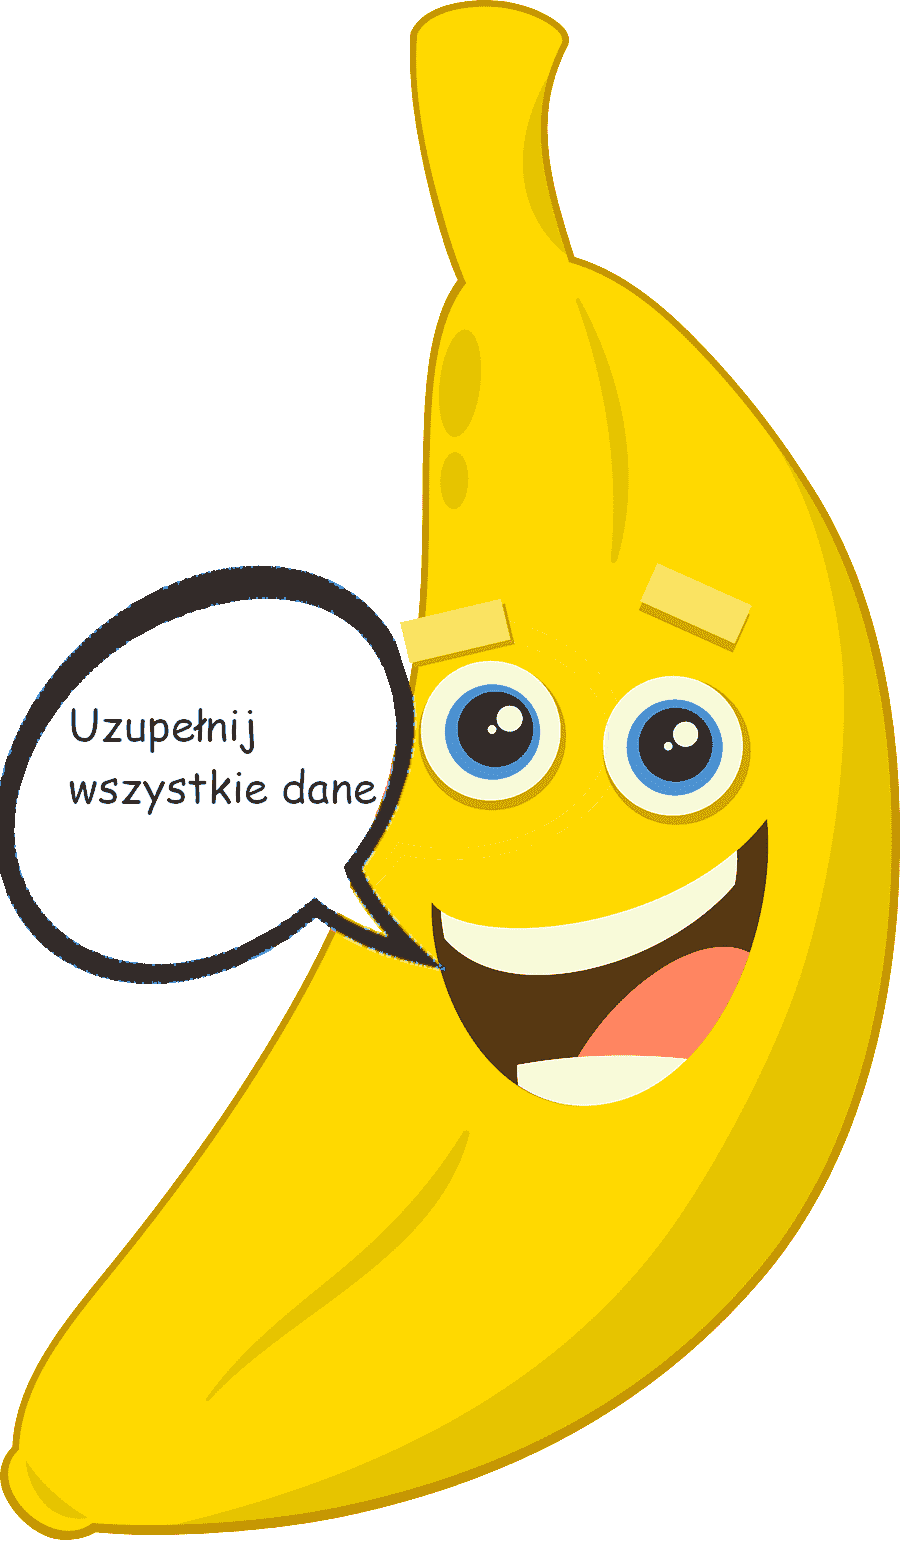
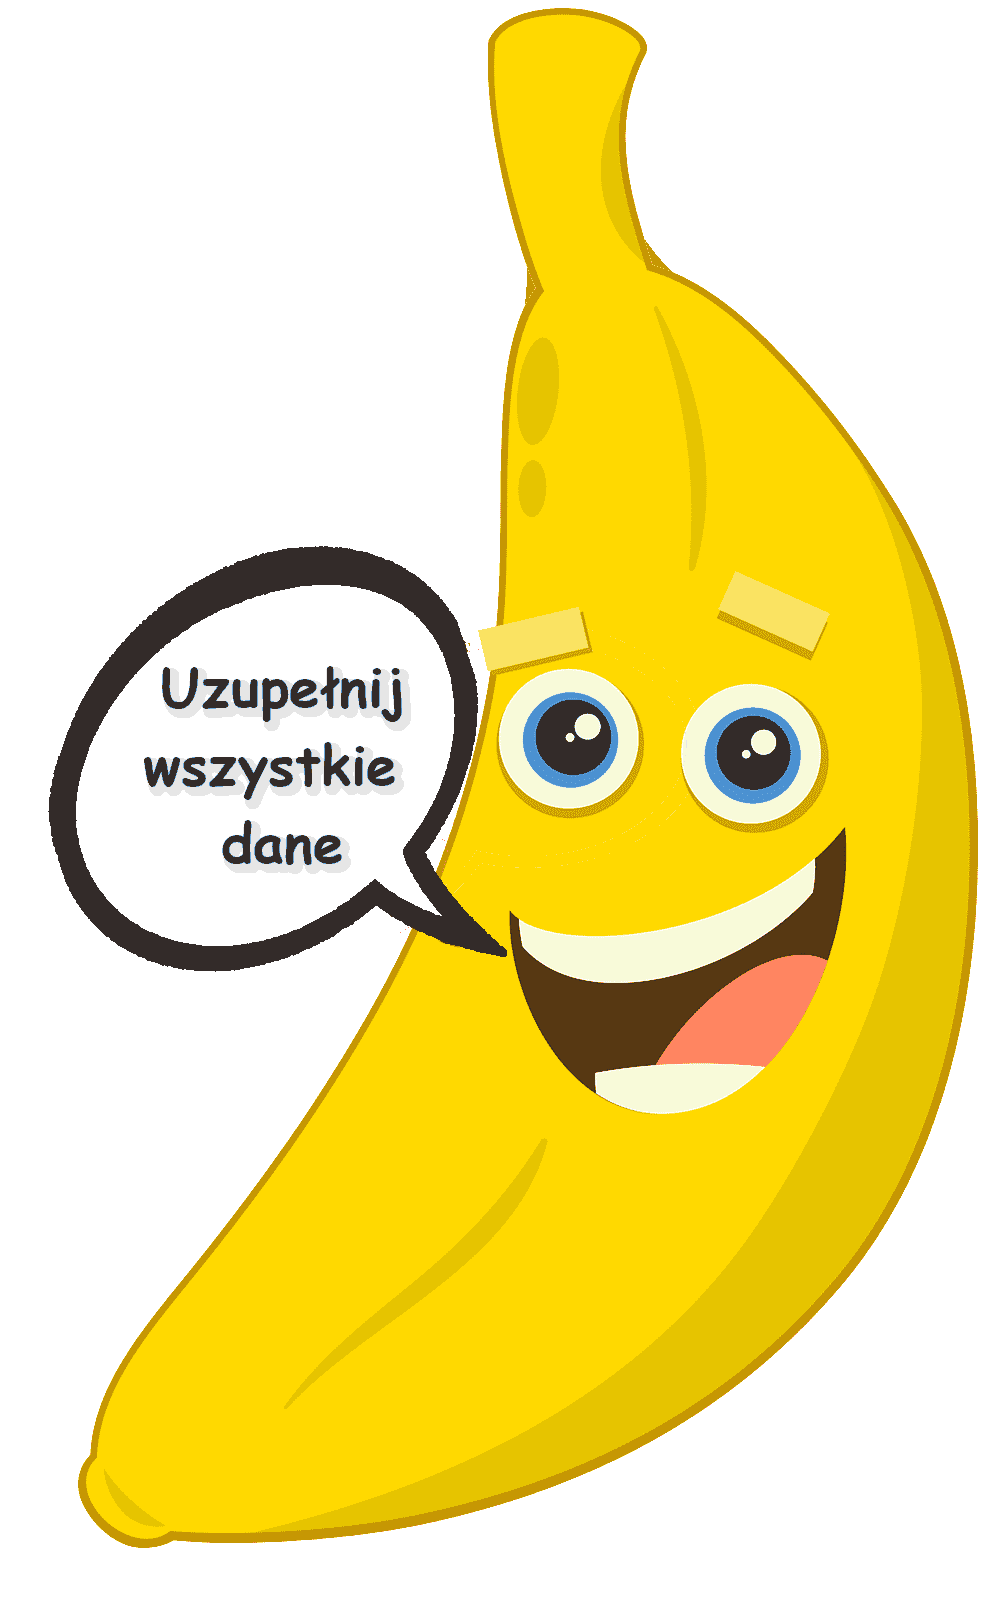
banan image and table desing

diff --git a/src/app/diet-table/diet-table.component.css b/src/app/diet-table/diet-table.component.css
@@ -1,30 +1,26 @@
+.table-header{
+  color: #000000;
+  font-family: 'Bungee Shade', sans-serif;
+  font-size: 35px;
+  text-align: center ;
+  background: -webkit-linear-gradient( #fbbc00, #d7e116);
+}
+td:nth-child(even) {background: rgb(255, 255, 255)}
+td:nth-child(even) {background: rgba(251, 255, 0, 0.171)}
+
 table.customTable {
-    margin-top:5%;
     margin-left: auto;
     margin-right: auto;
     width: 80%;
     background-color: #FFFFFF;
-    border-width: 2px;
-    border-color: #6bb313;
-    border-style: solid;
     color: #000000;
-    border-radius: 6px 6px 6px 6px;
-    border-collapse: separate;
     -webkit-box-shadow: 8px 8px 25px 0px rgba(66, 68, 90, 1);
     -moz-box-shadow: 8px 8px 25px 0px rgba(66, 68, 90, 1);
     box-shadow: 8px 8px 25px 0px rgba(66, 68, 90, 1);
     font-family: Helvetica;
-
-
   }
-  table.customTable td, table.customTable th {
-    
-    border-width: 2px;
-    border-color: #6bb313;
-    border-style: solid;
-    padding: 5px;
-  }
+
   
   table.customTable thead {
-    background-color: #f0f40b;
+    background-image: linear-gradient(to right, #00b09b, #96c93d);
   }

diff --git a/src/app/user-input-form/user-input-form.component.css b/src/app/user-input-form/user-input-form.component.css
@@ -1,6 +1,6 @@
 :host(){
     display: flex;
-    margin-top:1%;
+    margin-top:0.25%;
     justify-content:center; 
     align-items:center;
 }
@@ -12,6 +12,7 @@
     -moz-box-shadow: 8px 8px 25px 0px rgba(66, 68, 90, 1);
     box-shadow: 8px 8px 25px 0px rgba(66, 68, 90, 1);
     width: 26%;
+    
 }
 form{
     font-family: Helvetica;
@@ -26,7 +27,6 @@ form{
         margin: 2px;
         font-size: 15px;
         width: 45%;
-        
 }
 
 .form-control{
@@ -43,7 +43,17 @@ form{
 .form-control:focus {
     outline:none;
 }
-
+/* banan image div */
+#help-banan-image-div{
+  position: absolute;
+  margin-left:60%;
+}
+#help-banan-image{
+  -webkit-filter: drop-shadow(10px 10px 10px rgb(0, 0, 0));
+  filter: drop-shadow(10px 10px 10px rgb(0, 0, 0));
+  backdrop-filter: blur(2px);
+  
+}
 /* radio */
 
 .b-contain *,

diff --git a/src/app/user-input-form/user-input-form.component.html b/src/app/user-input-form/user-input-form.component.html
@@ -86,6 +86,6 @@
         <button class="btn" type ="submit" [disabled]="!formModel.valid" [routerLink]="['/diet-planner', firstName]">Stwórz plan dietetyczny</button>
     </form>
 </div>
-<div>
-    <img *ngIf="!formModel.valid" src="../../assets/banan.png" width="250px" height="auto">
+<div id="help-banan-image-div">
+    <img id="help-banan-image" *ngIf="!formModel.valid" src="../../assets/banan.png" width="250px" height="auto" alt="banan-image">
 </div>

diff --git a/src/index.html b/src/index.html
@@ -7,6 +7,8 @@
   <meta name="viewport" content="width=device-width, initial-scale=1">
   <link rel="icon" type="image/x-icon" href="favicon.ico">
   <link href='https://fonts.googleapis.com/css?family=Dancing Script' rel='stylesheet'>
+  <link href='http://fonts.googleapis.com/css?family=Bungee+Shade&subset=latin,latin-ext' rel='stylesheet'>
+  
 </head>
 <body>
   <app-root></app-root>

diff --git a/src/styles.css b/src/styles.css
@@ -4,4 +4,6 @@ html, body {
     margin: 0;
     background-color: #E8E8E8;
     background: linear-gradient(rgba(0, 0, 0, 0.1), rgba(0, 0, 0, 0.1)),url("./assets/backgroundImage.png");
+    background-repeat: no-repeat;
+    background-size: cover;
 }

diff --git a/src/app/diet-table/diet-table.component.html b/src/app/diet-table/diet-table.component.html
@@ -1,4 +1,4 @@
-<h1>{{firstName}} oto Twoja dieta na najbliższy tydzień:</h1>
+<h1 class = "table-header">Witaj {{firstName}} oto twoja dieta na najbliższy tydzień:</h1>
 <table class="customTable">
     <thead>
       <tr>

diff --git a/src/app/body/body.component.css b/src/app/body/body.component.css
@@ -1,0 +1,3 @@
+*{
+    height: auto;
+}
